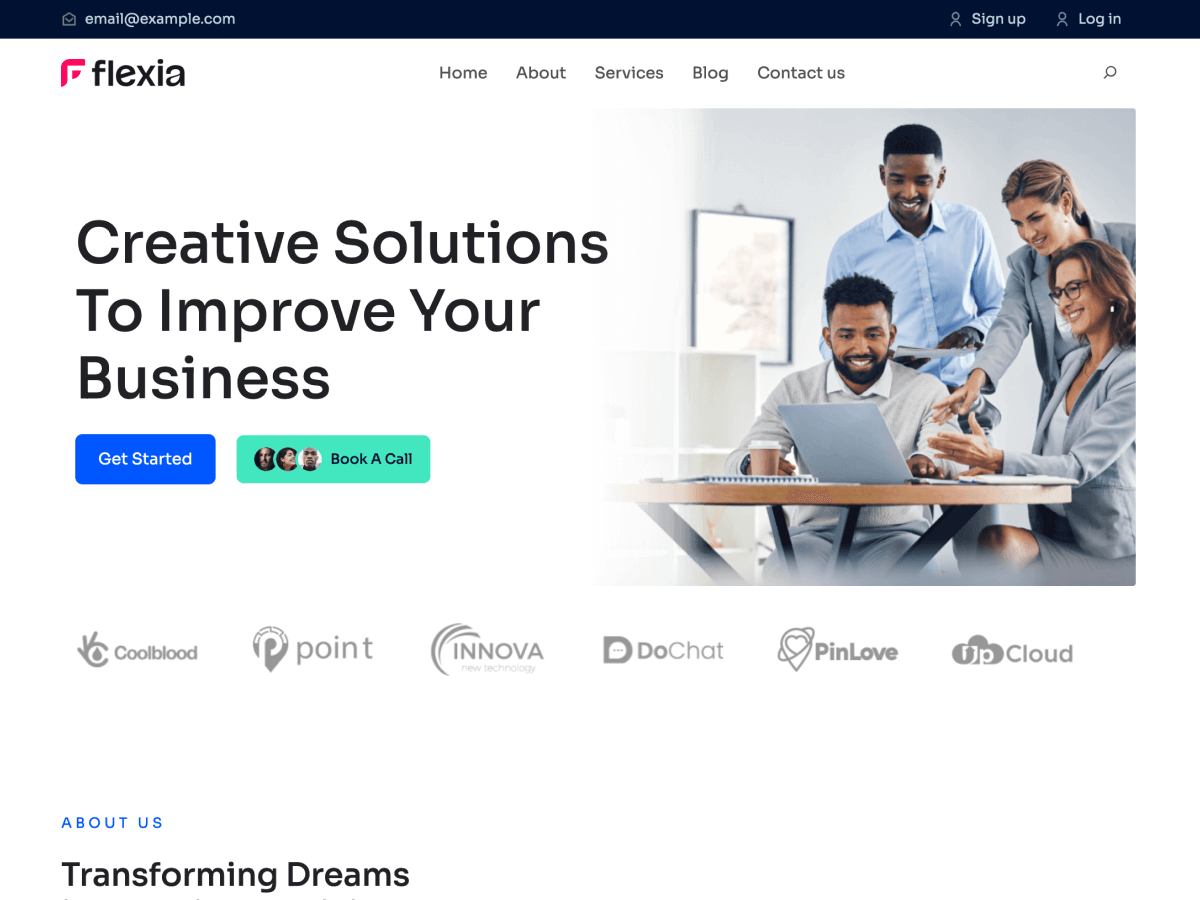
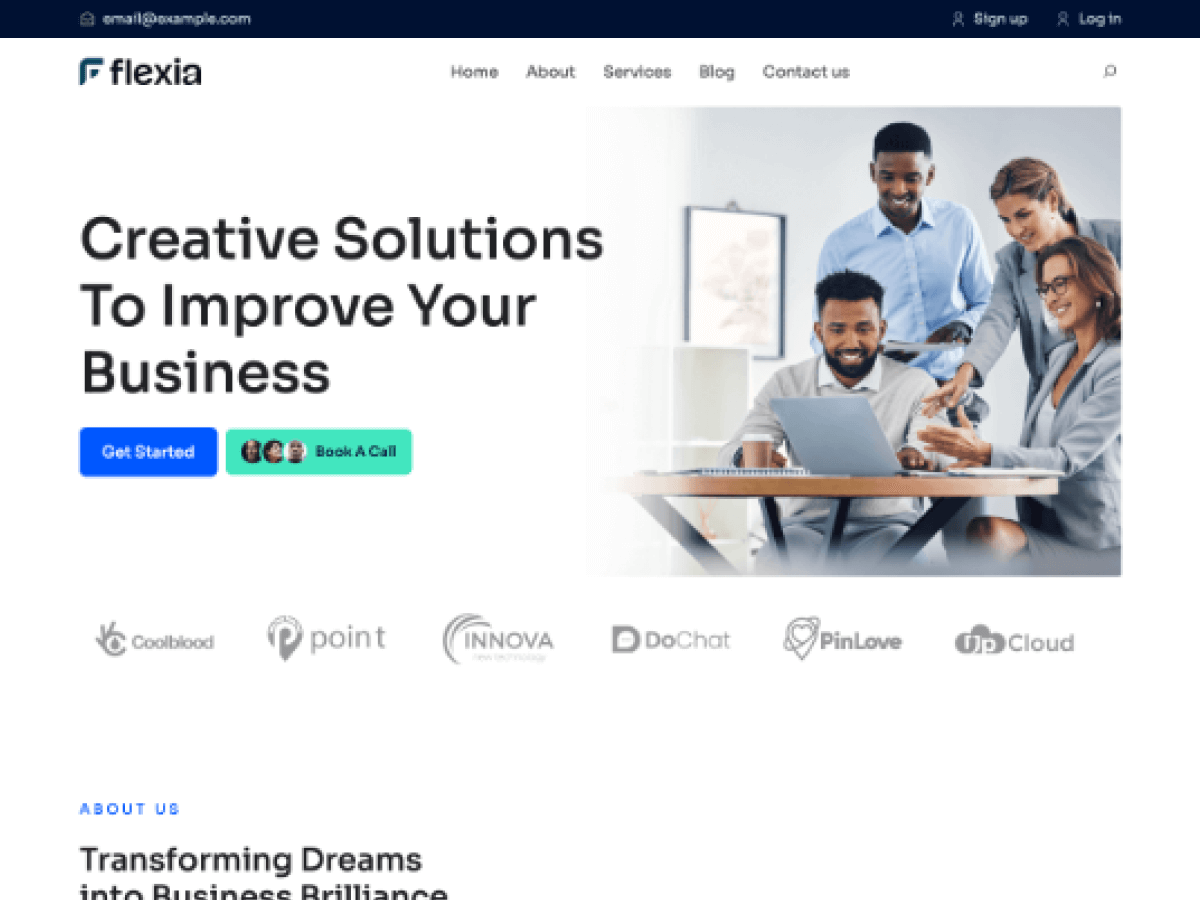
issue fixed
1) Screenshot updated
2) header custom menu id added

diff --git a/patterns/header.php b/patterns/header.php
@@ -53,14 +53,11 @@
 
 <!-- wp:navigation {"textColor":"Heading","layout":{"type":"flex","setCascadingProperties":true,"justifyContent":"right"},"style":{"spacing":{"blockGap":"var:preset|spacing|30"}},"fontSize":"medium"} -->
 <!-- wp:navigation-link {"label":"Home","url":"#","kind":"custom","isTopLevelLink":true} /-->
-
-<!-- wp:navigation-link {"label":"About","url":"#","kind":"custom","isTopLevelLink":true} /-->
-
-<!-- wp:navigation-link {"label":"Services","url":"#","kind":"custom","isTopLevelLink":true} /-->
-
-<!-- wp:navigation-link {"label":"Blog","url":"#","kind":"custom","isTopLevelLink":true} /-->
-
-<!-- wp:navigation-link {"label":"Contact us","url":"#","kind":"custom","isTopLevelLink":true} /-->
+<!-- wp:navigation-link {"label":"About","url":"#about","kind":"custom","isTopLevelLink":true} /-->
+<!-- wp:navigation-link {"label":"Services","url":"#services","kind":"custom","isTopLevelLink":true} /-->
+<!-- wp:navigation-link {"label":"Pricing","url":"#pricing","kind":"custom","isTopLevelLink":true} /-->
+<!-- wp:navigation-link {"label":"Blog","url":"#blog","kind":"custom","isTopLevelLink":true} /-->
+<!-- wp:navigation-link {"label":"Contact","url":"#","kind":"custom","isTopLevelLink":true} /-->
 <!-- /wp:navigation -->
 
 <!-- wp:search {"label":"Search","showLabel":false,"buttonText":"Search","buttonPosition":"button-only","buttonUseIcon":true,"isSearchFieldHidden":true,"style":{"border":{"width":"0px","style":"none","radius":"0px"},"layout":{"selfStretch":"fit","flexSize":null}},"textColor":"Heading","className":"header-search is-style-flexia-minimal-search","fontSize":"small"} /--></div>
